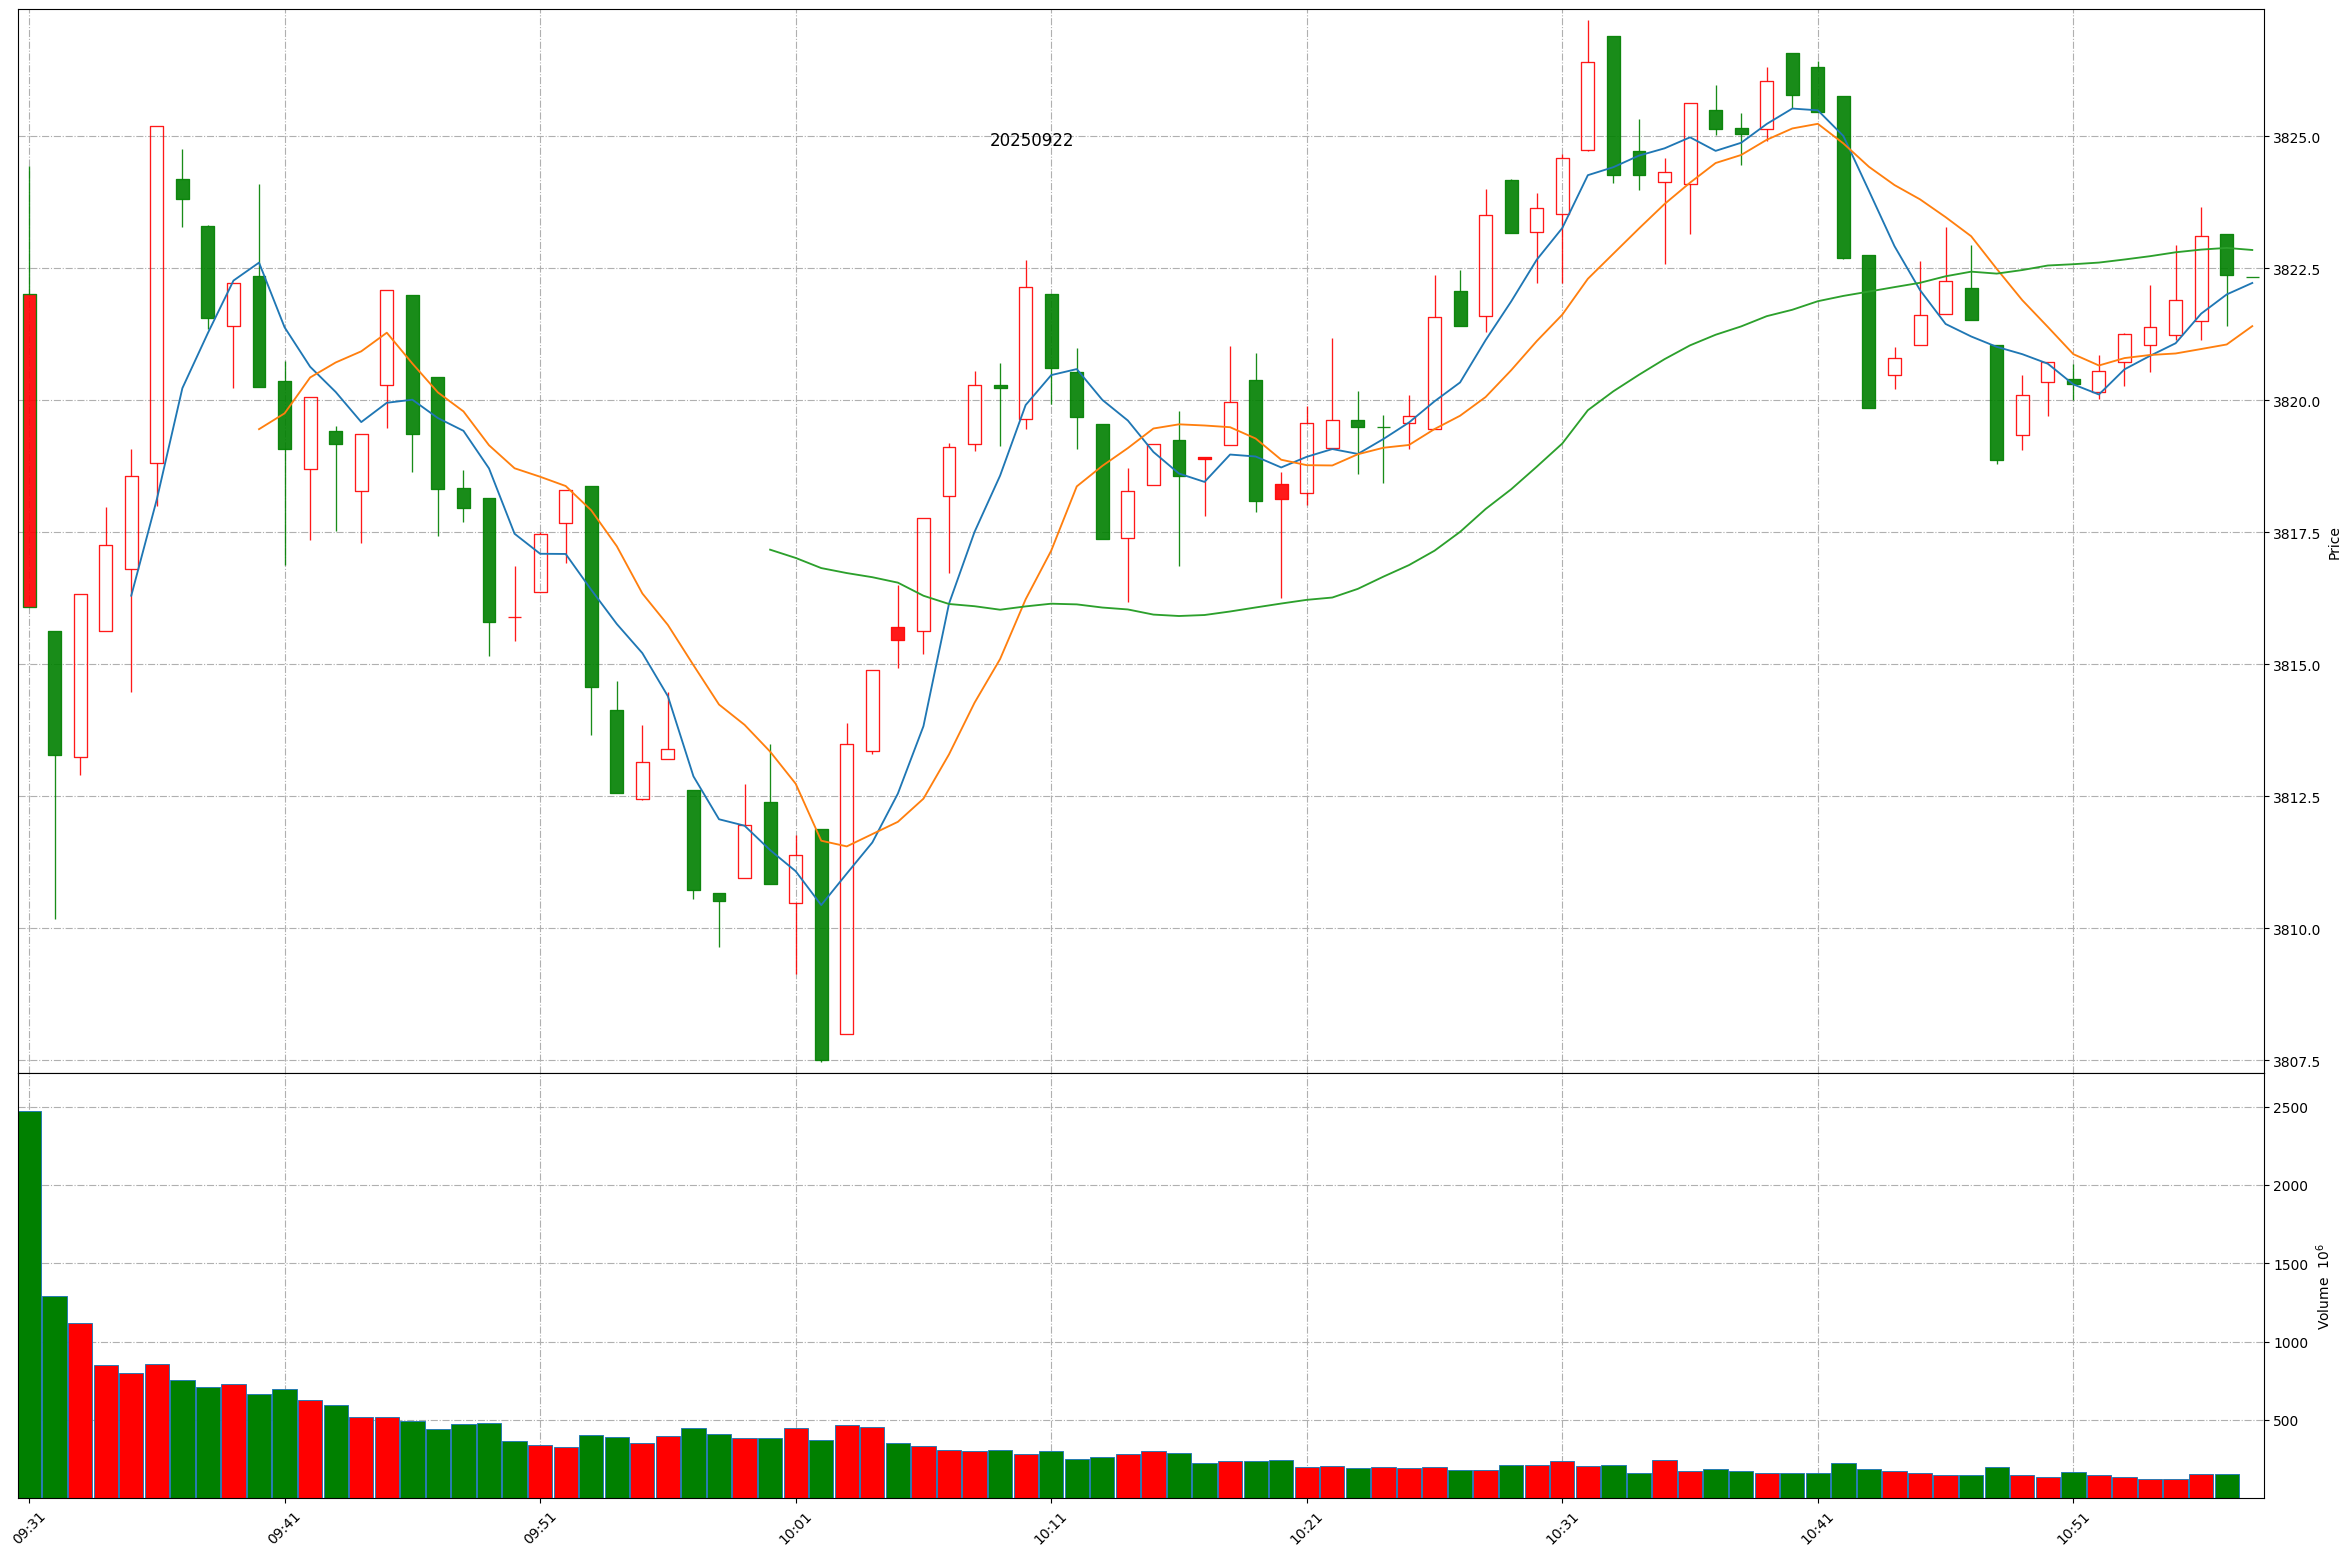
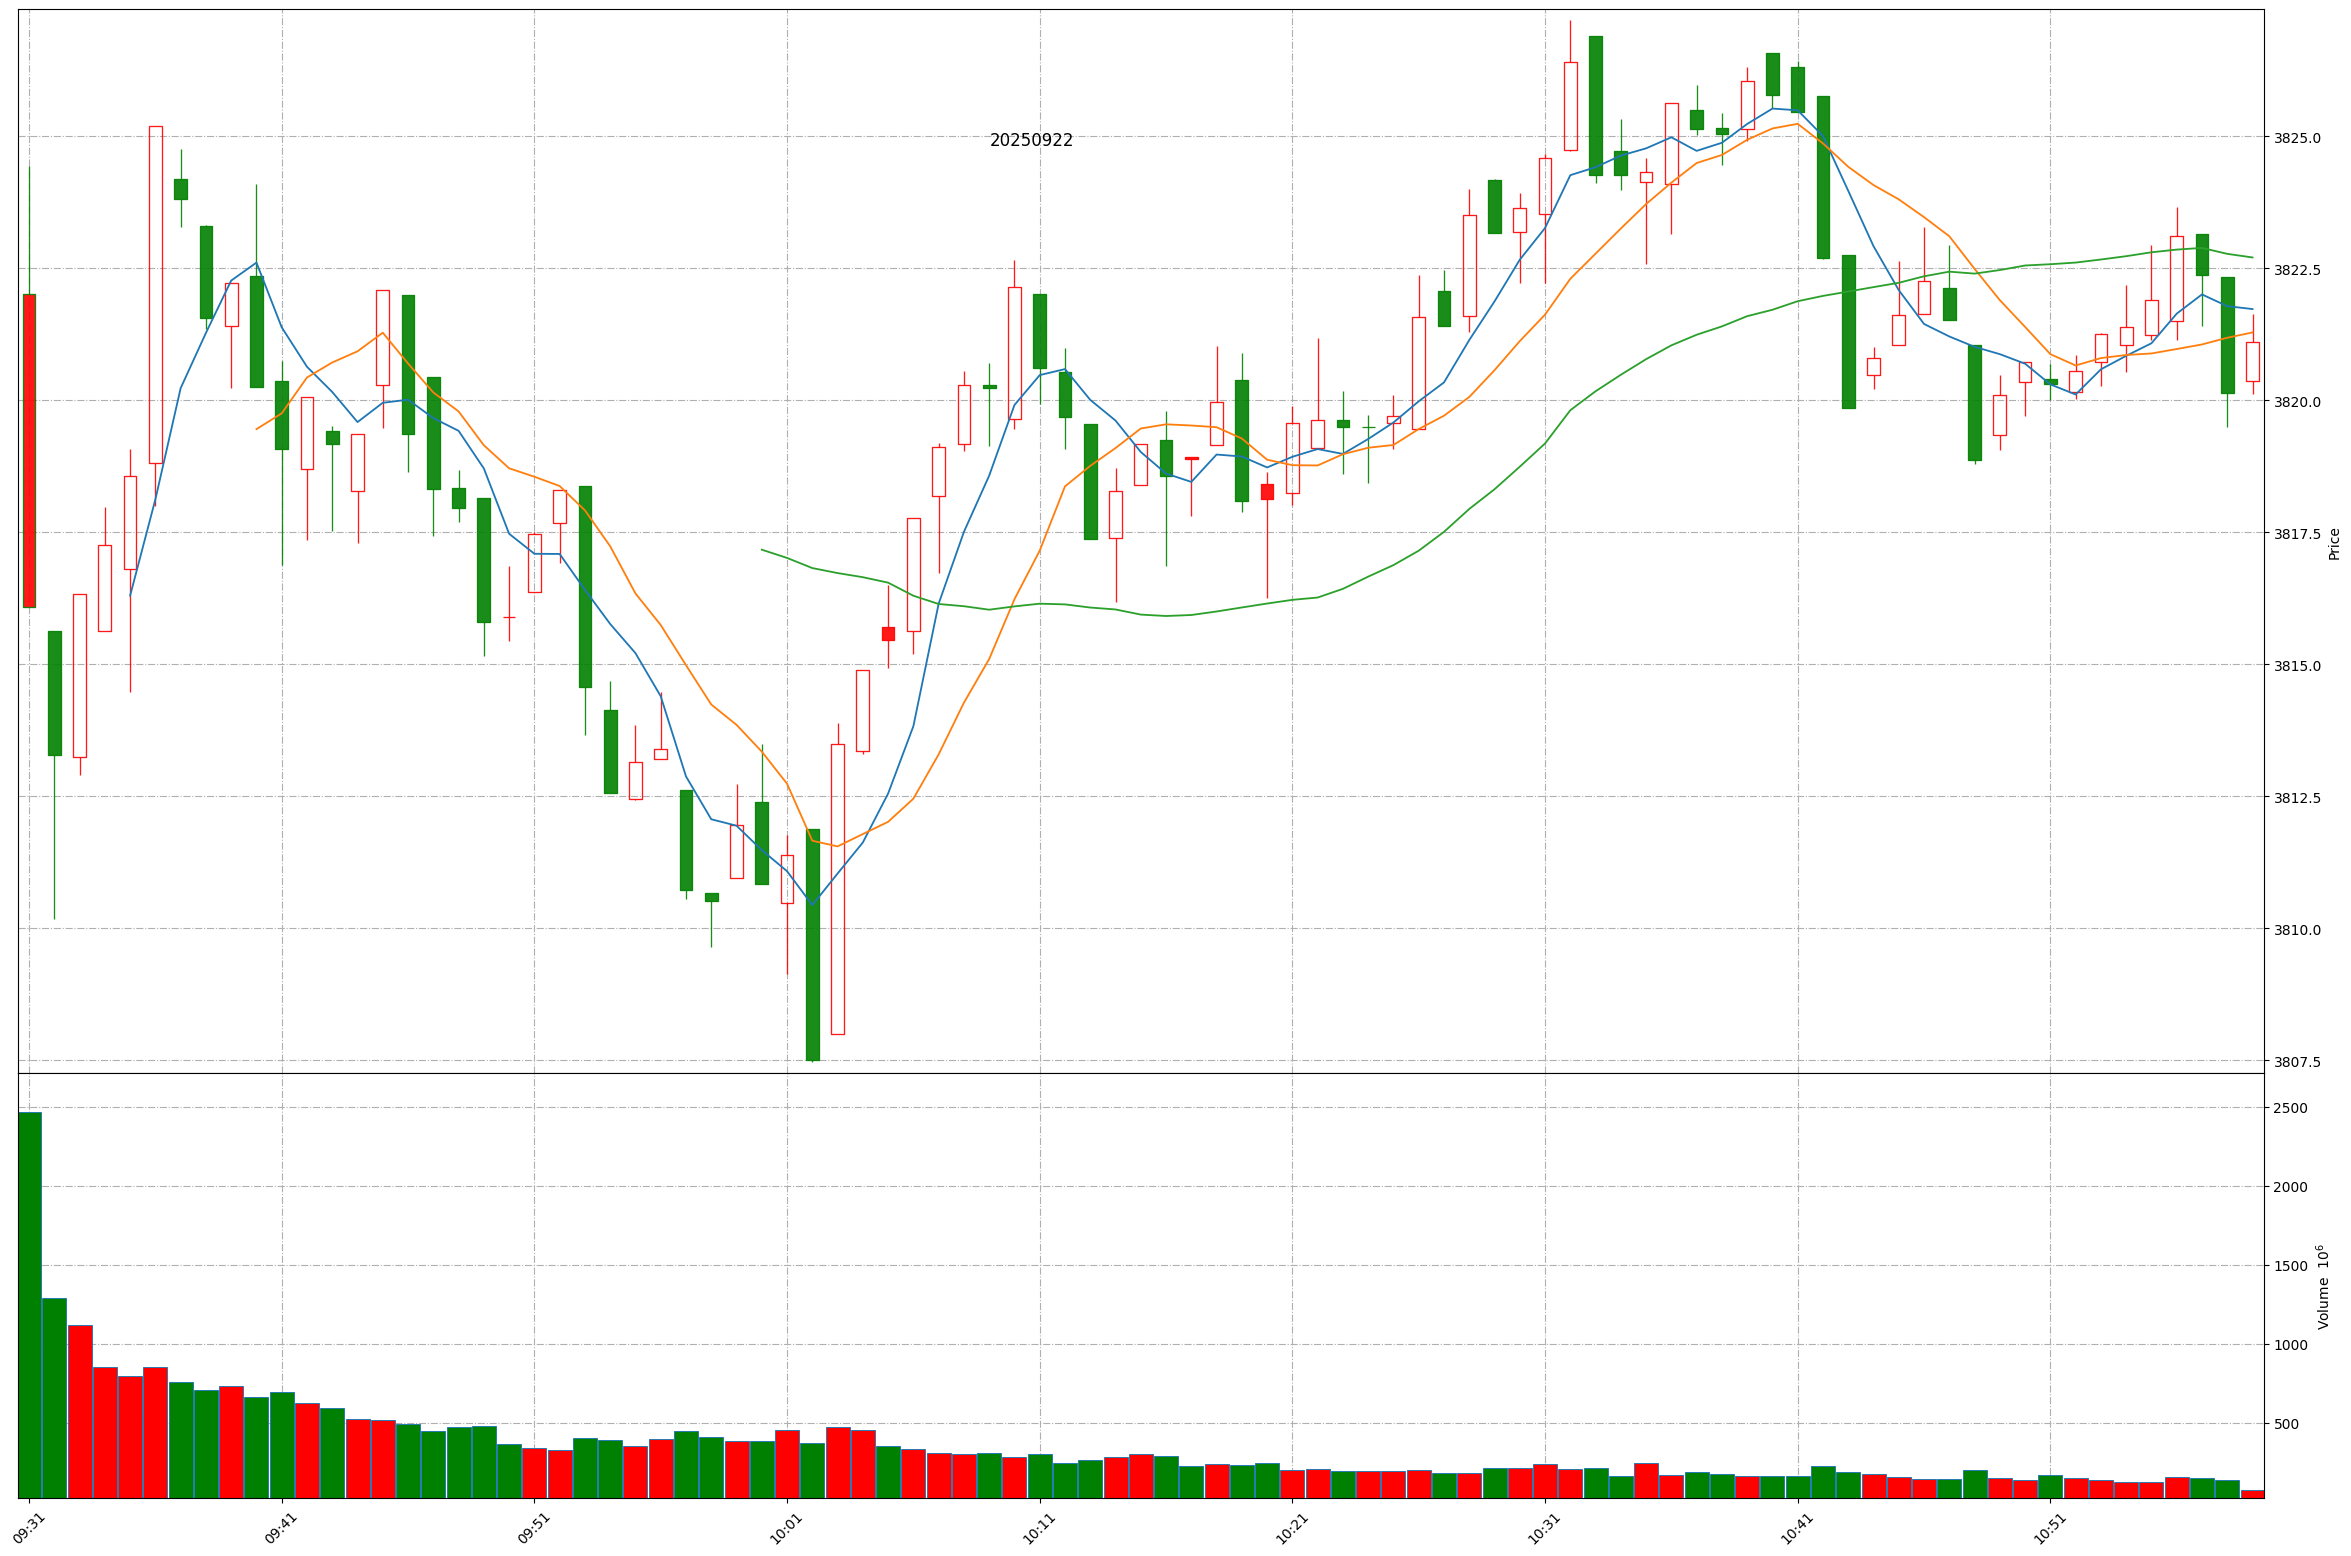
Github action update at 2025-09-22 10:58:58.

diff --git a/README.md b/README.md
@@ -1,11 +1,11 @@
 
 # Daily-A-share-market-quotes 每日 A 股指数（5min 更新）- 20250922
 
-### 上证指数 20250922 10:57
+### 上证指数 20250922 10:58
 ![](./fig/2025/9/20250922-sh000001.png)
 
-### 深证成指 20250922 10:57
+### 深证成指 20250922 10:58
 ![](./fig/2025/9/20250922-sz399001.png)
 
-### 北证50 20250922 10:57
+### 北证50 20250922 10:58
 ![](./fig/2025/9/20250922-bj899050.png)
